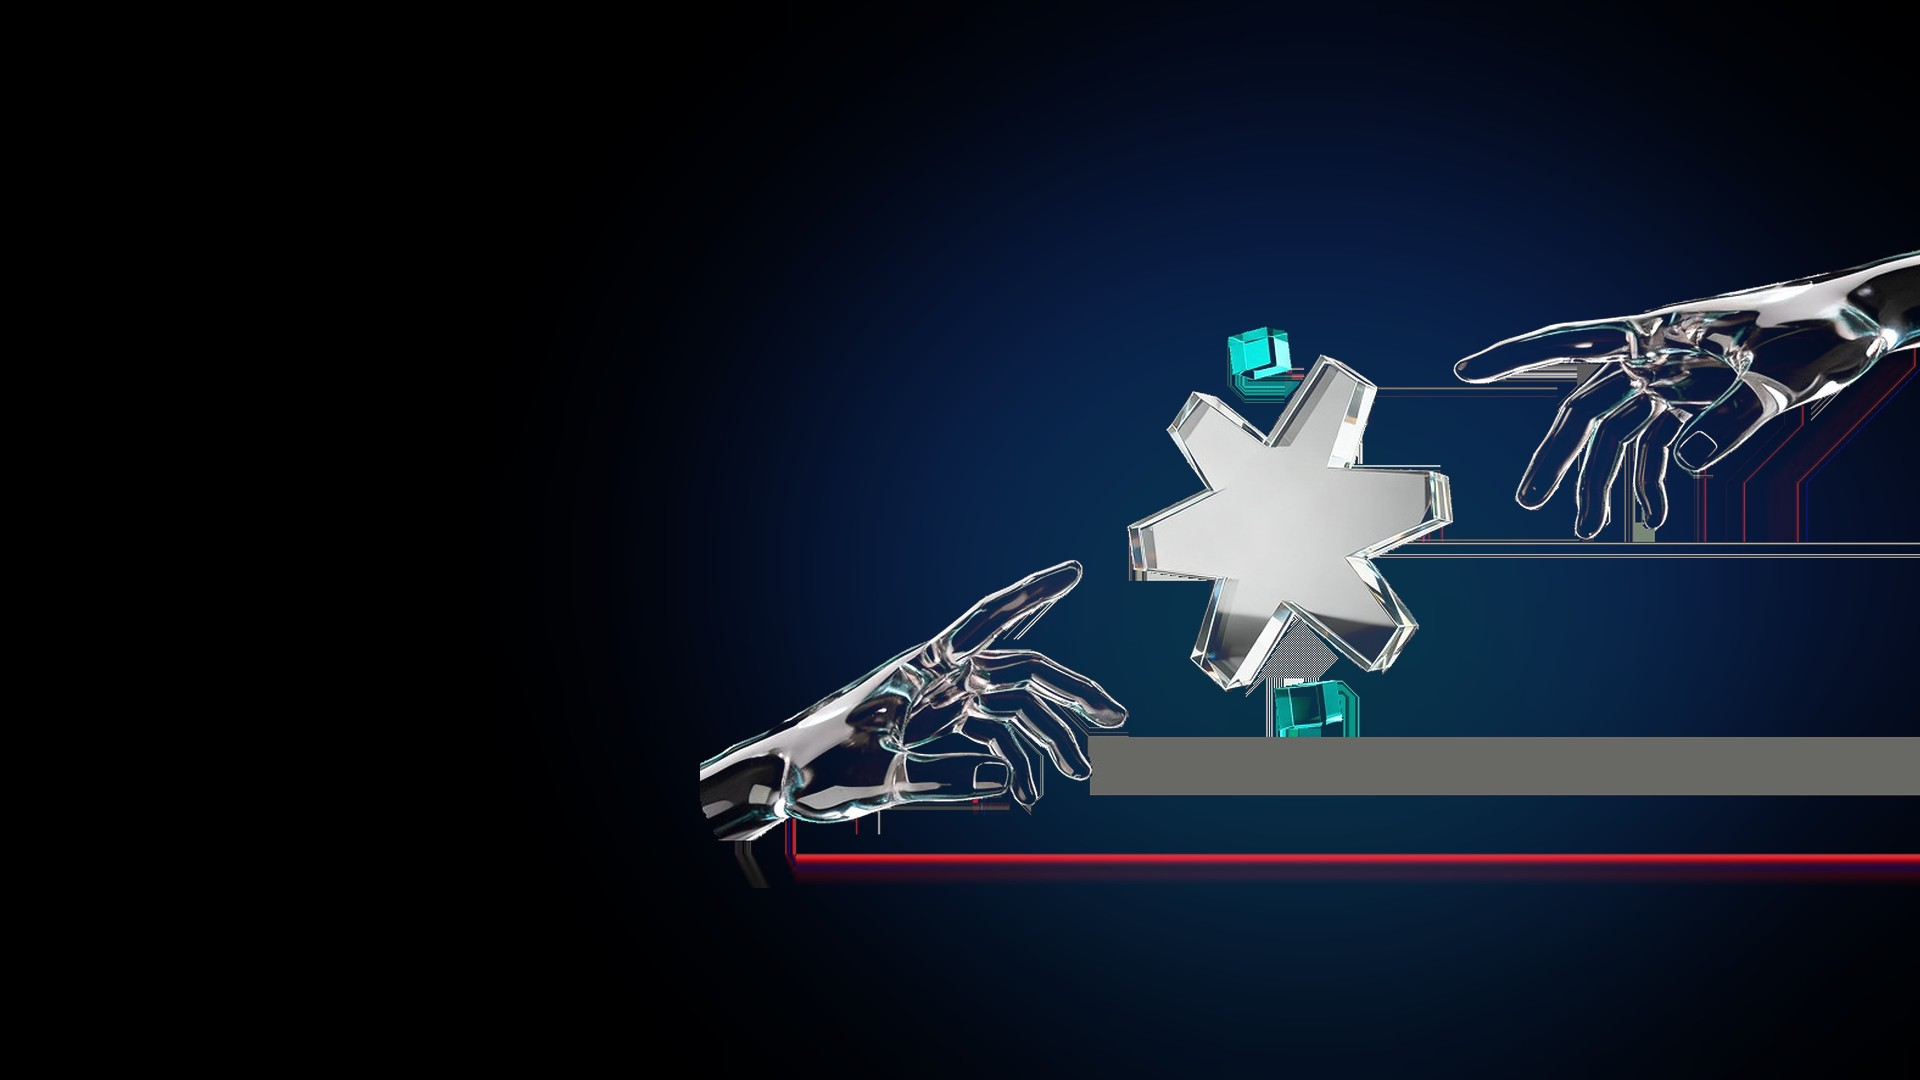
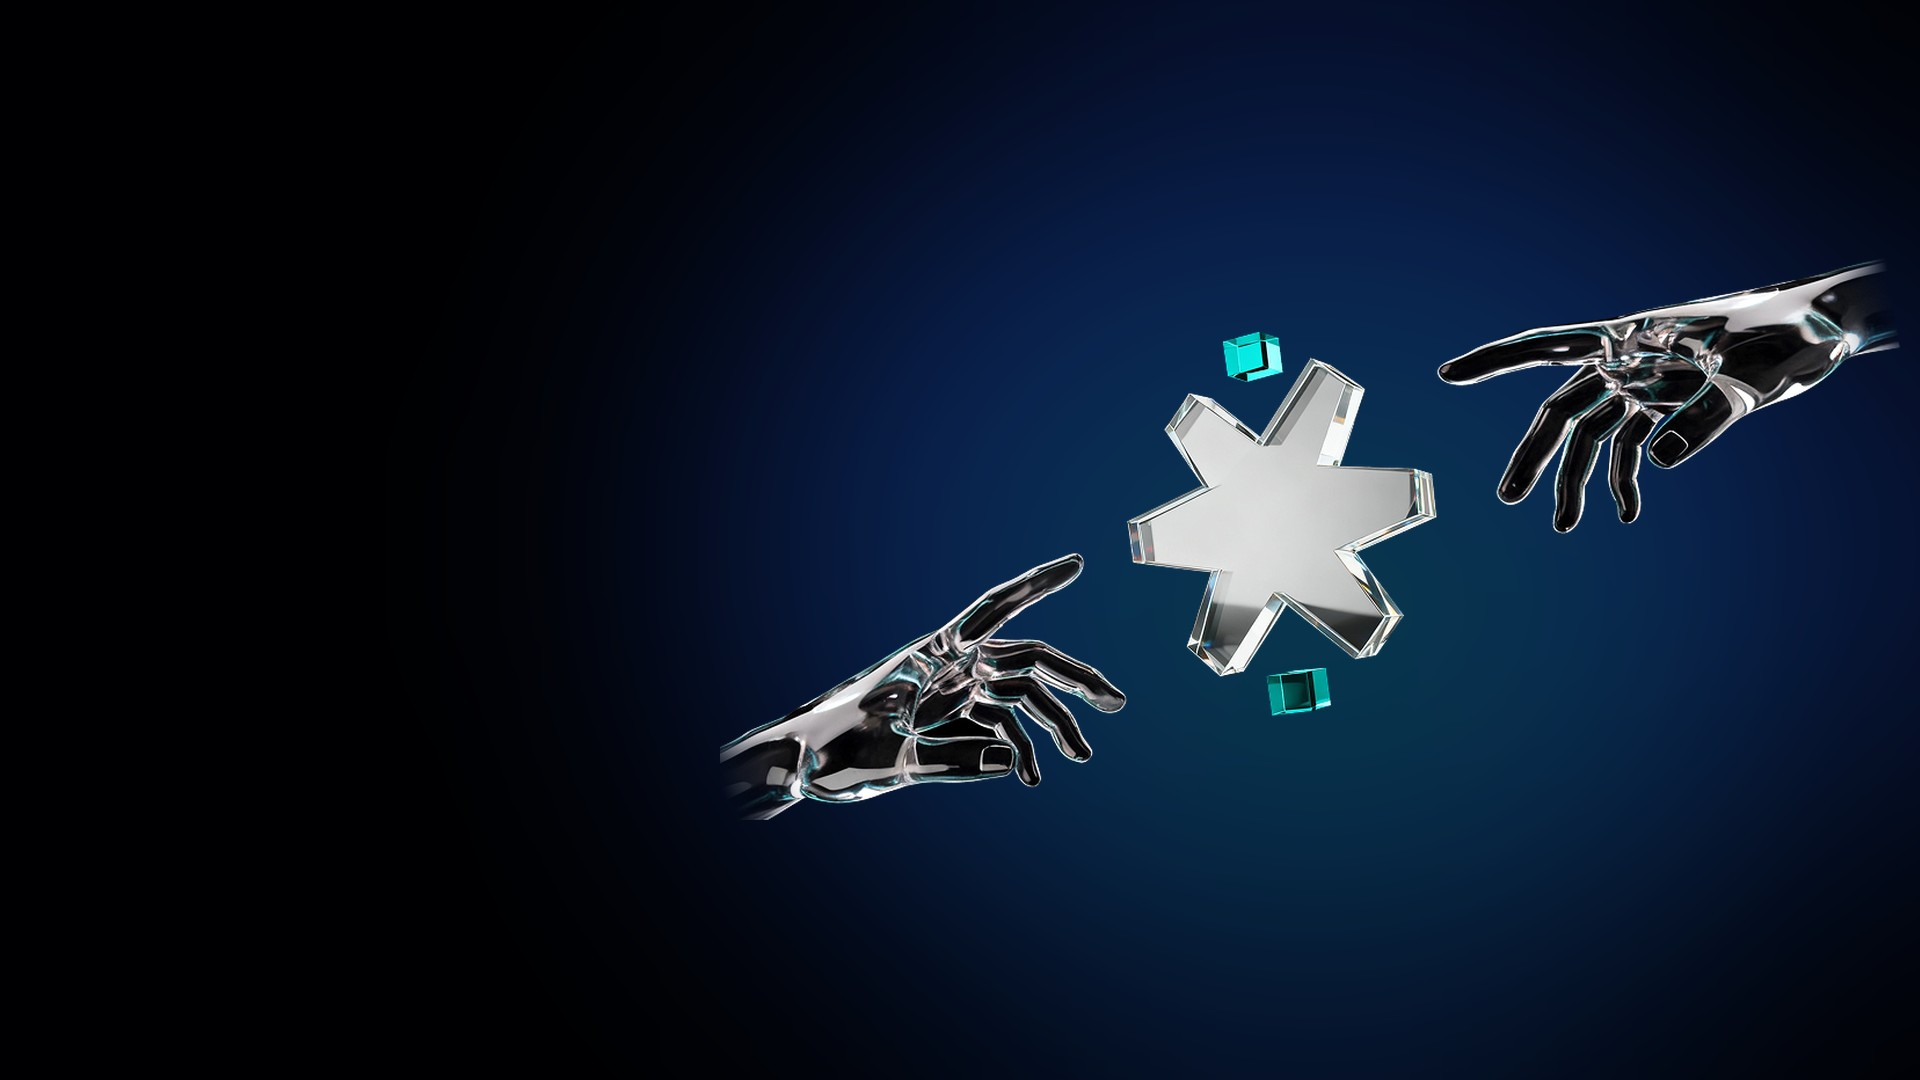
MENA: the supplied mark on a clean plate, and untruncated heading
- The supplied cut-out is already a transparent PNG, so it composites
  straight onto a dark stage with a cold glow. No red guide lines or grey
  bar this time, and the mark keeps its own edges.
- The gradient heading was clipping its descenders: background-clip:text
  crops to the line box, so the line height went to 1.16 and the gradient
  line became an inline-block with room underneath.
- Firmed the left scrim so the lead clears the reaching hand.

Changed region(s): [[0.3438, 0.2139, 1.0, 0.825]]

diff --git a/assets/css/styles.css b/assets/css/styles.css
@@ -8934,7 +8934,7 @@ html.is-animate [data-pt-drop] .pt-cty{opacity:0}
 .mn-hero::before{
   content:"";position:absolute;inset:0;z-index:-2;
   background:
-    linear-gradient(90deg,rgba(0,2,8,.92) 0%,rgba(0,2,8,.76) 32%,rgba(0,2,8,.28) 56%,transparent 82%),
+    linear-gradient(90deg,rgba(0,2,8,.94) 0%,rgba(0,2,8,.86) 34%,rgba(0,2,8,.42) 56%,transparent 82%),
     linear-gradient(180deg,rgba(0,2,8,.5),transparent 24%,rgba(0,2,8,.84));
 }
 .mn-hero-in{position:relative;z-index:1;width:100%}
@@ -8947,10 +8947,12 @@ html.is-animate [data-pt-drop] .pt-cty{opacity:0}
 .mn-badge i{width:6px;height:6px;border-radius:50%;background:var(--mint);
   box-shadow:0 0 10px rgba(22,233,215,.9)}
 .mn-badge span{font-size:10.5px;font-weight:800;letter-spacing:.16em;text-transform:uppercase;color:#e6edf8}
-/* two lines whatever the width: the first one is the long one */
-.mn-h1{margin-top:26px;font-size:clamp(31px,4vw,56px);font-weight:800;letter-spacing:-.05em;line-height:1.02}
+/* two lines whatever the width: the first one is the long one.
+   background-clip:text crops to the line box, so the descenders need room */
+.mn-h1{margin-top:26px;font-size:clamp(31px,4vw,56px);font-weight:800;letter-spacing:-.05em;line-height:1.16}
 .mn-h1 span{display:block;white-space:nowrap}
 .mn-h1 .lit{
+  display:inline-block;padding-bottom:.1em;
   color:transparent;background:linear-gradient(96deg,#fff 4%,var(--acc-3) 46%,var(--mint) 96%);
   -webkit-background-clip:text;background-clip:text;
 }
